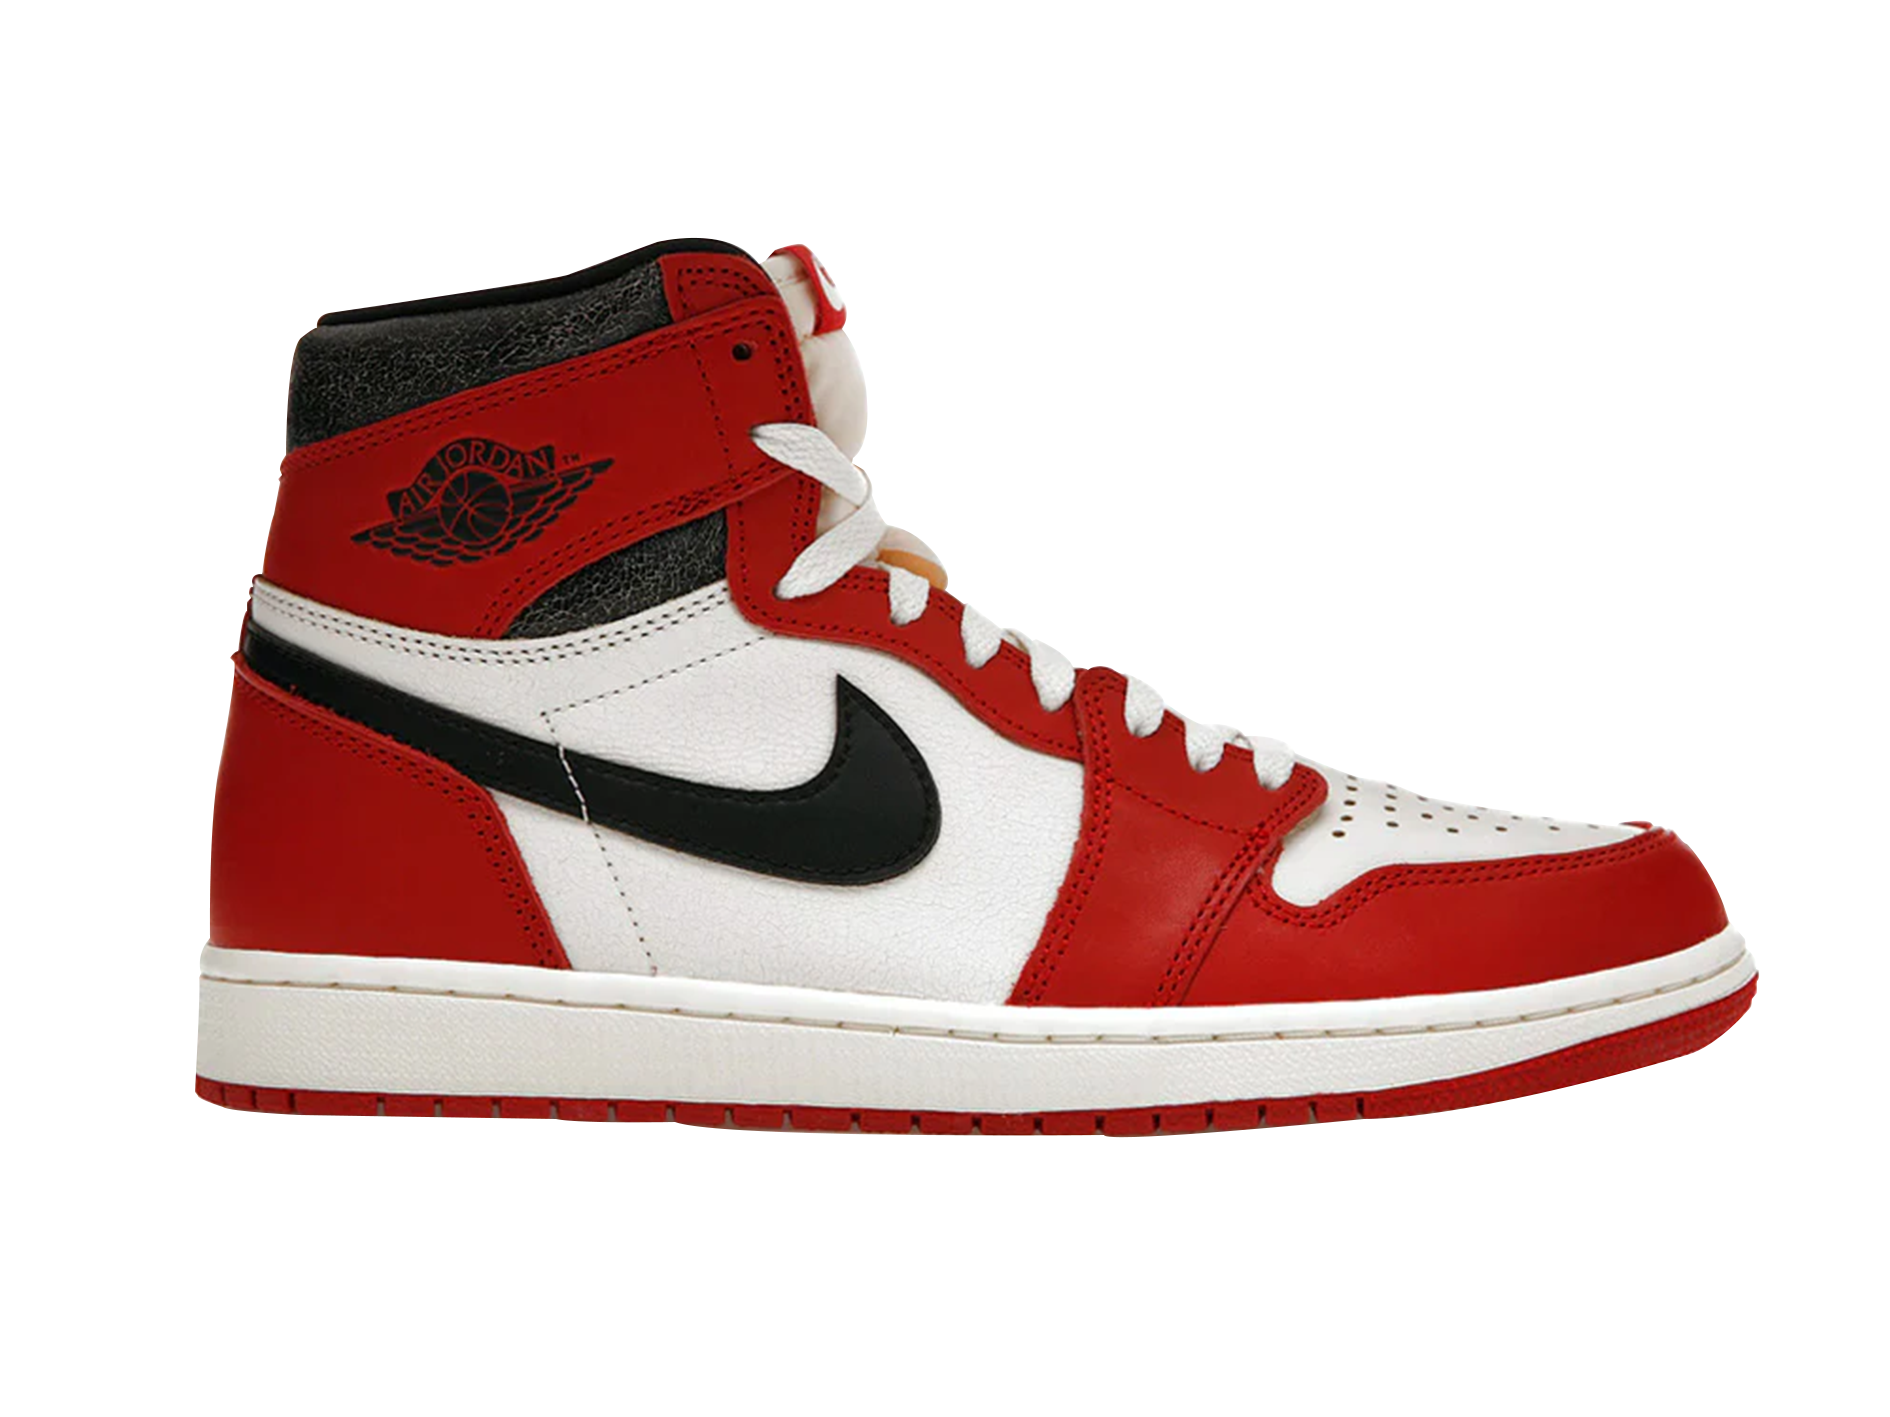
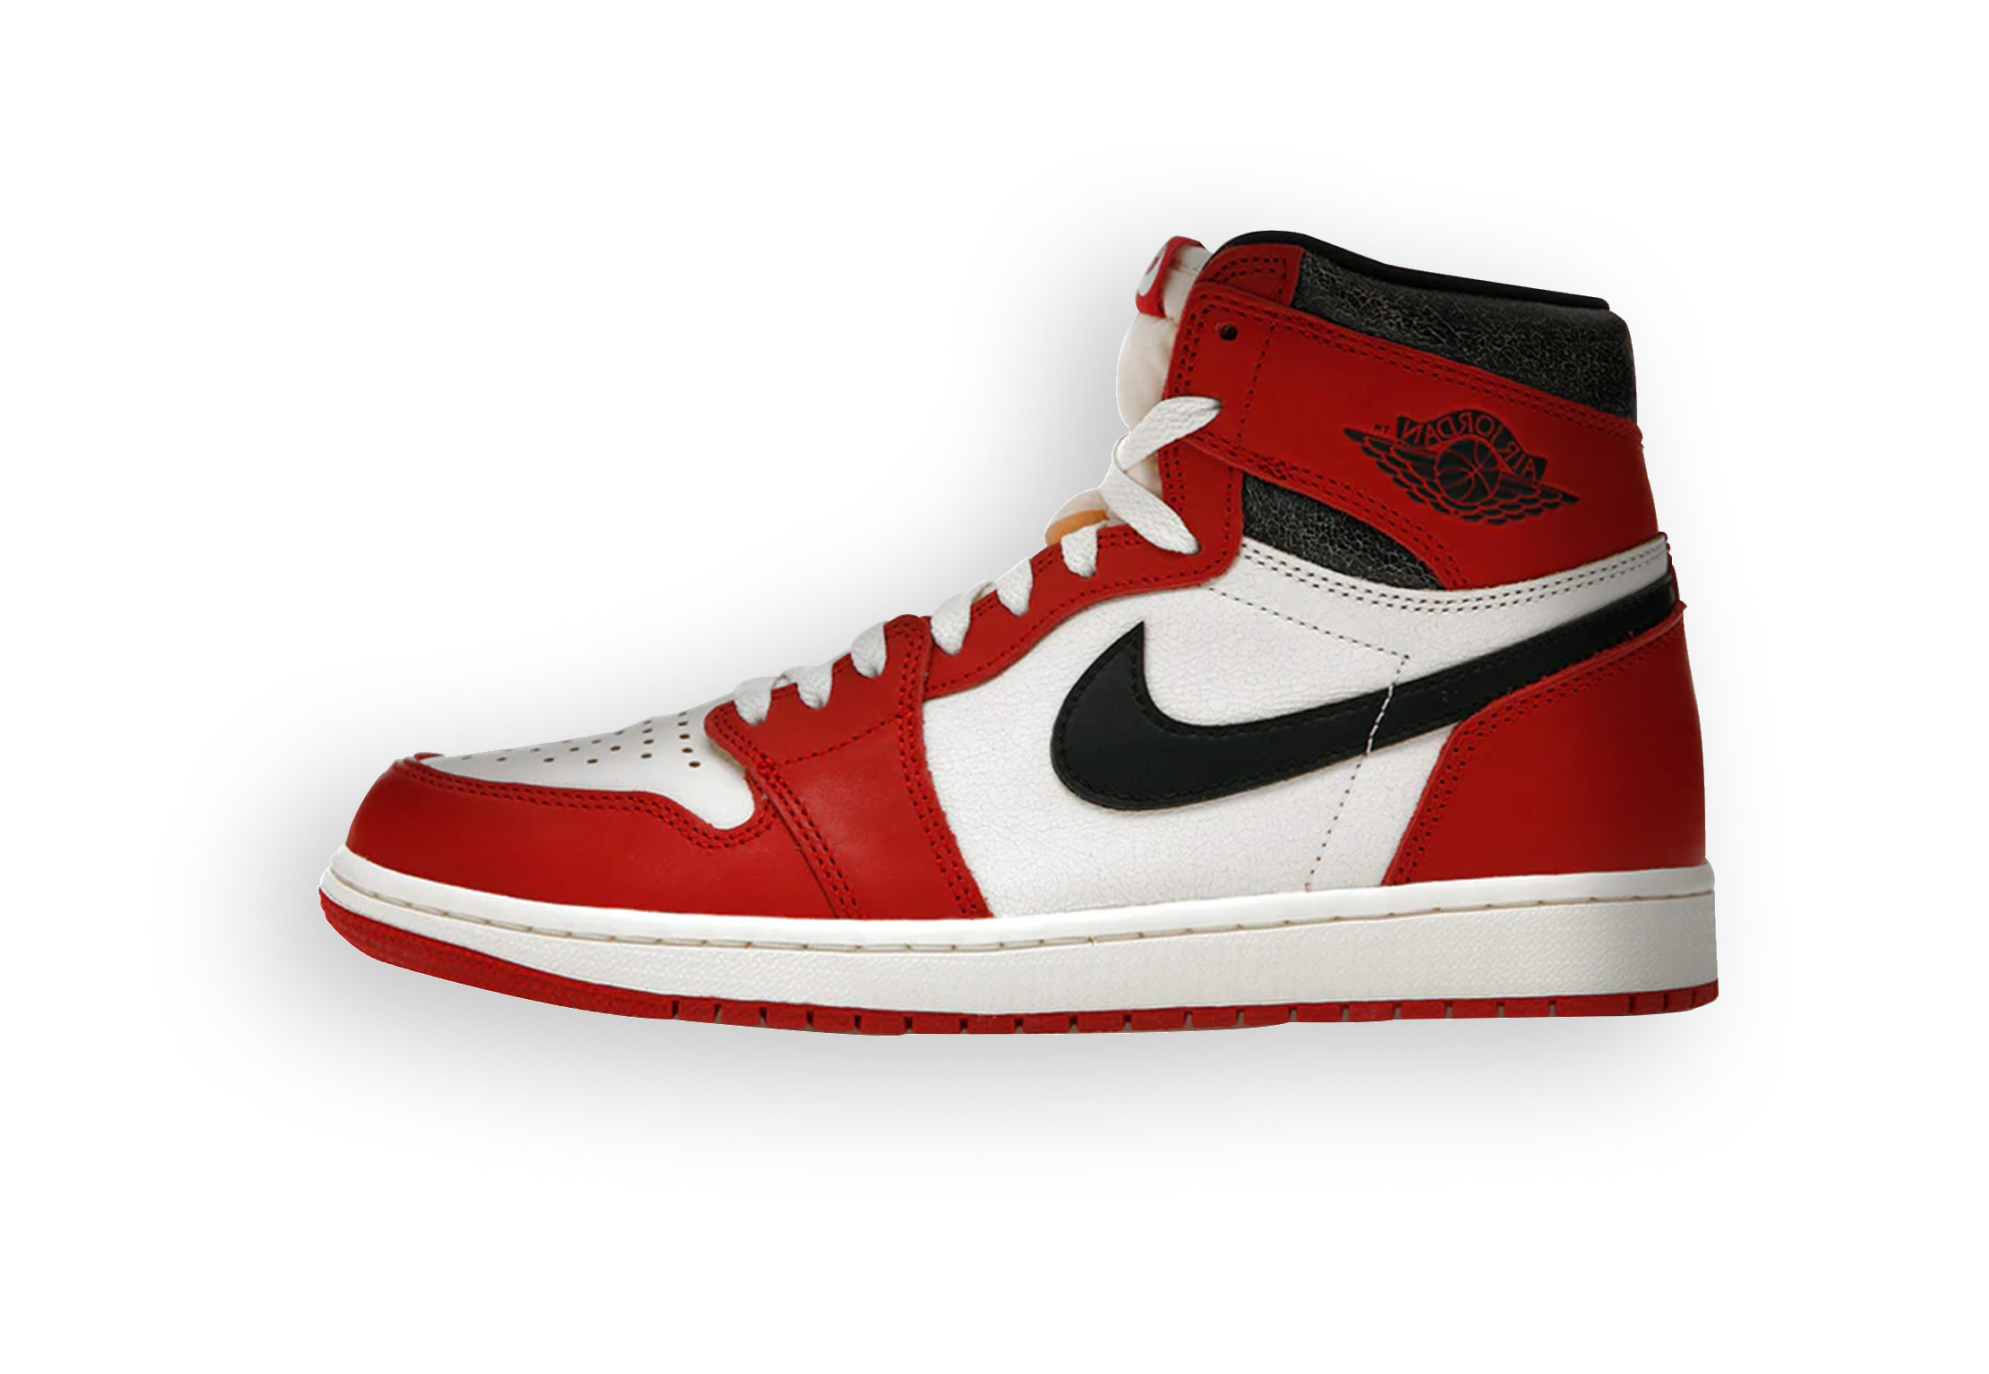
Accueil - ajout de toutes les paires

diff --git a/style/index.css b/style/index.css
@@ -1,6 +1,6 @@
 @import url('https://fonts.googleapis.com/css2?family=Poppins:ital,wght@0,100;0,200;0,300;0,400;0,500;0,600;0,700;0,800;0,900;1,100;1,200;1,300;1,400;1,500;1,600;1,700;1,800;1,900&display=swap');
 
-@font-face {
+@font-face{
     font-family: 'Graffiti';
     src: url('../font/Graffiti.ttf');
 }
@@ -30,15 +30,15 @@ body{
     transition: background-color 0.2s ease, color 0.3s ease;
 }
 
-body::-webkit-scrollbar {
+body::-webkit-scrollbar{
     width: 12px; 
 }
   
-body::-webkit-scrollbar-track {
+body::-webkit-scrollbar-track{
     background: rgba(14,14,14,255); 
 }
   
-body::-webkit-scrollbar-thumb {
+body::-webkit-scrollbar-thumb{
     background-color: ghostwhite; 
     border-radius: 10px; 
     border: 3px solid #101823; 
@@ -60,13 +60,13 @@ nav:hover{
     background-color: var(--navbar);
 }
 
-.hidden {
+.hidden{
 	top: -80px;
 	transition: all ease 0.5s;
   	transition-delay: 0.2s;
 }
 
-.switch {
+.switch{
     cursor: pointer;
 }
 
@@ -105,7 +105,7 @@ nav .logo{
     transform: translateY(-2px);
 }
 
-nav .logo:hover {
+nav .logo:hover{
     font-weight: bold;
     position: relative;
     color: transparent;
@@ -144,7 +144,7 @@ nav .logo:hover {
     width: 100%;
 }
 
-.sneaker-list {
+.sneaker-list{
     position: absolute;
     top: -130px;
     right: 58%;
@@ -158,7 +158,7 @@ nav .logo:hover {
     flex-direction: column;
 }
 
-.sneaker-item {
+.sneaker-item{
     display: block;
     font-size: 12em;
     margin: 0;
@@ -166,16 +166,16 @@ nav .logo:hover {
     line-height: 1.0;
 }
 
-.sneaker-item:nth-child(even) {
+.sneaker-item:nth-child(even){
     text-align: left;
 }
 
-.sneaker-item:nth-child(odd) {
+.sneaker-item:nth-child(odd){
     text-align: left;
     margin-left: 450px;
 }
 
-.container-sneaker {
+.container-sneaker{
     position: static;
     margin-top: 80vh;
     margin-left: 50%;
@@ -189,12 +189,12 @@ nav .logo:hover {
     align-items: center;
 }
 
-.cercle {
+.cercle{
     position: absolute;
     border-radius: 50%;
 }
 
-.bleu {
+.bleu{
     width: 695.3px;
     height: 591.6px;
     background-color: #399DF5;
@@ -203,7 +203,7 @@ nav .logo:hover {
     transform: translate(50%, -50%);
 }
 
-.vert {
+.vert{
     width: 377px;
     height: 321px;
     background-color: #097042;
@@ -212,7 +212,7 @@ nav .logo:hover {
     transform: translate(-50%, -50%);
 }
 
-.rouge {
+.rouge{
     width: 304px;
     height: 260px;
     background-color: #BE3F42;
@@ -221,9 +221,34 @@ nav .logo:hover {
     transform: translate(50%, 50%);
 }
 
-.airmax {
-    position: static;
-    width: 1000px;
+.airmax{
+    position: absolute;
+    width: 150%;
+    top: 40%;
+    right: 60%;
+    transform: translate(50%, -50%) rotate(-27deg);
+    pointer-events: visiblePainted;
+    transition: 0.2s ease;
+}
+
+.stansmith{
+    position: absolute;
+    width: 150%;
+    top: 25%;
+    right: 35%;
+    transform: translate(50%, -50%) rotate(27deg);
+    pointer-events: visiblePainted;
+    transition: 0.2s ease;
+}
+
+.airjordan{
+    position: absolute;
+    width: 150%;
+    top: 45%;
+    right: 55%;
+    transform: translate(50%, -50%) rotate(-27deg);
+    pointer-events: visiblePainted;
+    transition: 0.2s ease;
 }
 
 footer{
@@ -266,12 +291,12 @@ input, textarea{
     border-bottom: 2px solid var(--text);
 }
 
-textarea {
+textarea{
     resize: none;
     height: 80px;
 }
 
-button {
+button{
     background-color: #399DF5;
     color: white;
     padding: 10px 20px;
@@ -280,6 +305,6 @@ button {
     cursor: pointer;
 }
 
-button:hover {
+button:hover{
     background-color: #0056b3;
 }

diff --git a/Index.html b/Index.html
@@ -34,8 +34,8 @@
         </div>
         <div class="container-sneaker">
             <div class="cercle bleu"><img class="airmax" src="image/paire/airmax.png"></div>
-            <div class="cercle vert"></div>
-            <div class="cercle rouge"></div>
+            <div class="cercle vert"><img class="stansmith" src="image/paire/stansmith.png"></div>
+            <div class="cercle rouge"><img class="airjordan" src="image/paire/airjordan.png"></div>
         </div>
     </main>
 
